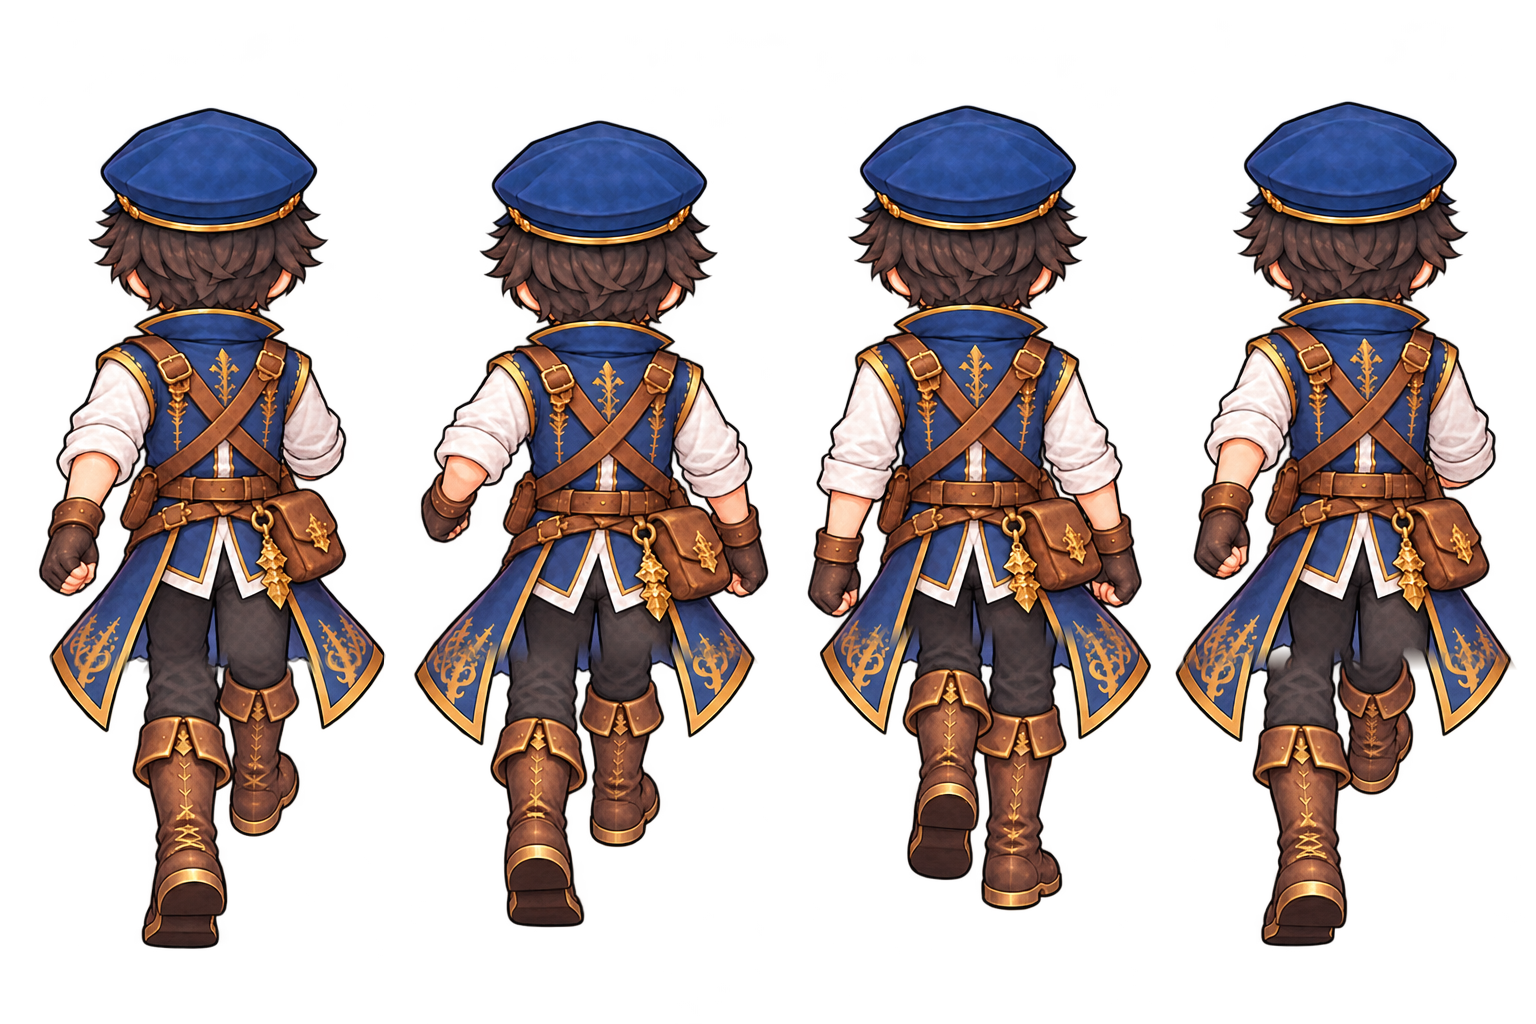
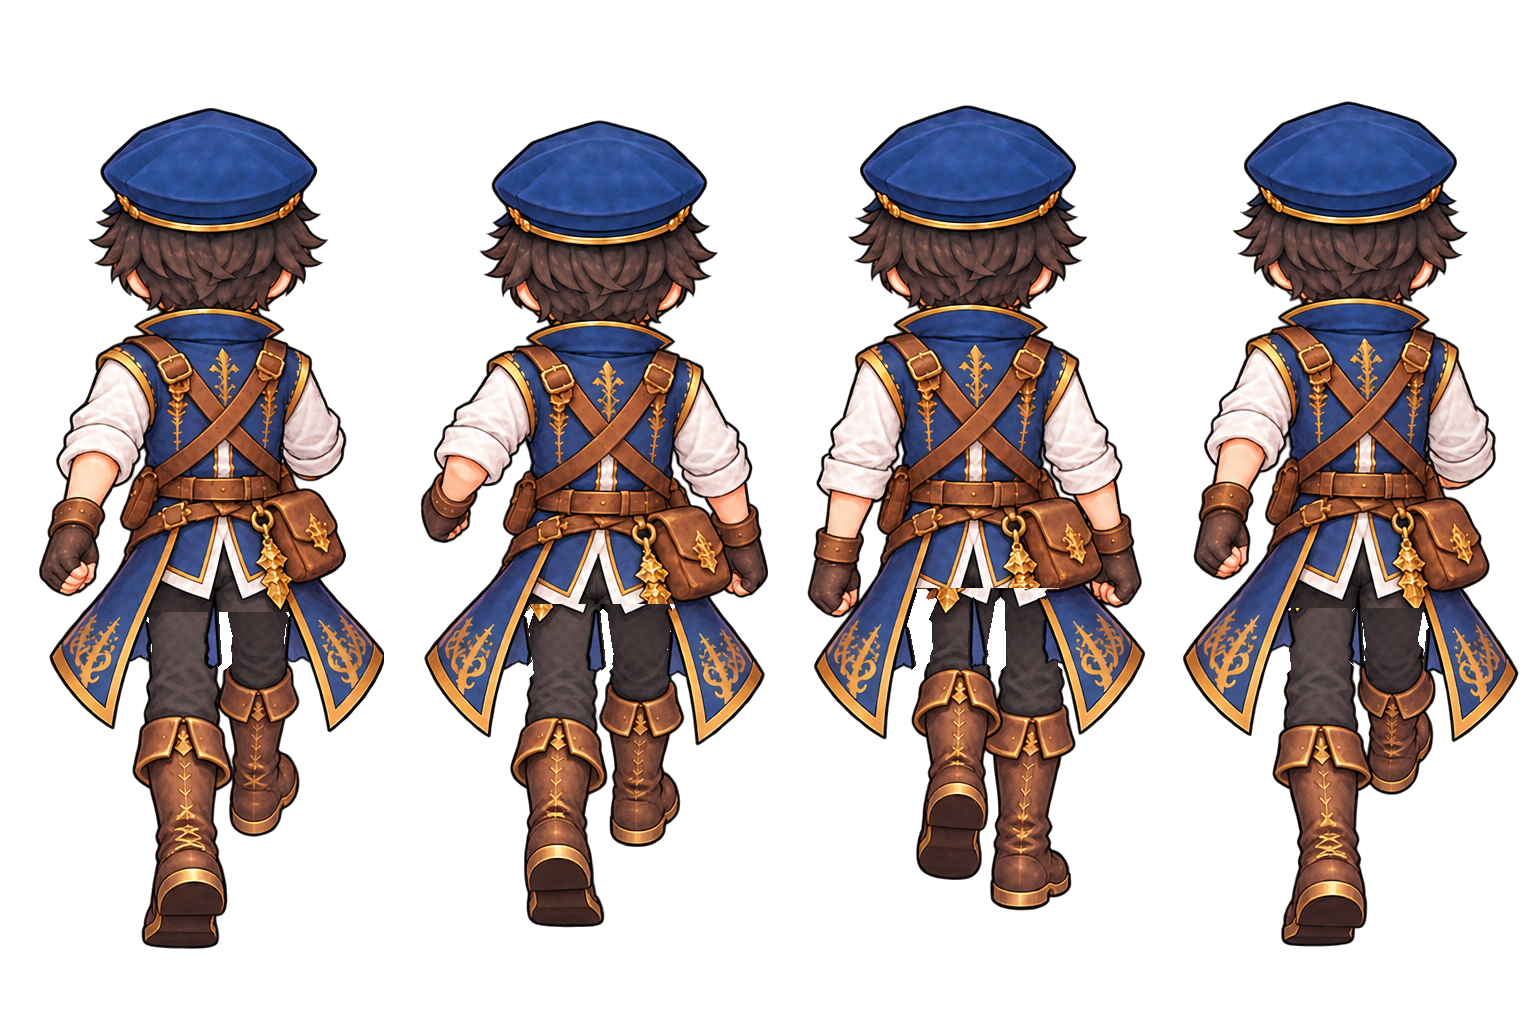
背中の歩き2枚目を作り直し（コートが切れないように足だけ入れ替え）
コート・手・かばんは元の位置のまま、ズボンとブーツだけを股の中心で左右反転して
コートの後ろに描く方法に変えた（前の版は腰より下ごと反転したため、コートの形が合わず切れて見えた）。

Claude-Session: https://claude.ai/code/session_017WQbmD1PjqFYPU1QptgkxD

Changed region(s): [[0.5312, 0.5625, 1.0, 0.9375], [0.0312, 0.5625, 0.5, 0.9062]]

diff --git a/tools/art/back_walk_swap_legs.py b/tools/art/back_walk_swap_legs.py
@@ -1,0 +1,89 @@
+"""後ろ向きの歩き2枚目（左足の1歩）を1枚目（右足の1歩）から作る（2026-10-24。画像AIの2枚目が1枚目とほぼ同じ絵だったための代わり）。
+コート（青・金のふち・その輪郭）・手・かばんは元の位置のまま残し、ズボンとブーツだけを股の中心で左右反転して、コートの後ろに描く。
+python3 -I tools/art/back_walk_swap_legs.py <1枚目> <出力> [切れ目 0.60]
+"""
+import sys
+import numpy as np
+from PIL import Image
+from scipy import ndimage
+
+src, dst = sys.argv[1], sys.argv[2]
+CUT = float(sys.argv[3]) if len(sys.argv) > 3 else 0.60
+im = np.array(Image.open(src).convert('RGBA')).astype(np.float32)
+H = im.shape[0]
+YY = np.arange(H)[:, None]
+
+
+def over(d, s):
+    sa = s[..., 3:4] / 255
+    da = d[..., 3:4] / 255
+    oa = sa + da * (1 - sa)
+    rgb = (s[..., :3] * sa + d[..., :3] * da * (1 - sa)) / np.maximum(oa, 1e-6)
+    return np.concatenate([rgb, oa * 255], -1)
+
+
+out = np.zeros_like(im)
+masks = []
+for i in range(4):
+    x0, x1 = i * 384, (i + 1) * 384
+    s = im[:, x0:x1]
+    a = s[..., 3] > 30
+    lab, n = ndimage.label(a)
+    sizes = ndimage.sum(a, lab, range(1, n + 1))
+    a = lab == (1 + int(np.argmax(sizes)))
+    ys = np.nonzero(a.any(1))[0]
+    top, bot = ys[0], ys[-1]
+    h = bot - top
+    cut = int(top + CUT * h)
+    r, g, b = s[..., 0], s[..., 1], s[..., 2]
+    mx = np.maximum(np.maximum(r, g), b)
+    blue = a & (b > r + 20) & (b > g + 5)
+    gold = a & (r > 150) & (g > 95) & (r - b > 70)
+    near_blue = ndimage.binary_dilation(blue, iterations=5)
+    glab, gn = ndimage.label(gold)
+    coat_gold = np.zeros_like(gold)
+    for k in range(1, gn + 1):
+        c = glab == k
+        if (c & near_blue).sum() >= 0.3 * c.sum():
+            coat_gold |= c
+    coat = blue | coat_gold
+    dark = a & (mx < 90)
+    coat |= dark & ndimage.binary_dilation(coat, iterations=4)
+    coat = ndimage.binary_closing(coat, iterations=2) & a
+    # 足＝切れ目より下の「コート以外」のうち、いちばん下（ブーツ）までつながっている部分
+    cand = a & ~coat & (YY >= cut)
+    lab2, n2 = ndimage.label(cand)
+    legs = np.zeros_like(cand)
+    for k in range(1, n2 + 1):
+        c = lab2 == k
+        if c[int(bot - 0.12 * h):].any():
+            legs |= c
+    # 股の中心：切れ目のすぐ下の足の左右の端の真ん中
+    xs = np.nonzero(legs[cut:cut + 12].any(0))[0]
+    cx = (xs[0] + xs[-1]) / 2
+    leg_img = s.copy()
+    leg_img[..., 3] = np.where(legs, s[..., 3], 0)
+    mir = np.zeros_like(leg_img)
+    for x in range(384):
+        xm = int(round(2 * cx - x))
+        if 0 <= xm < 384:
+            mir[:, x] = leg_img[:, xm]
+    rest = s.copy()
+    rest[..., 3] = np.where(legs | ~a, 0, s[..., 3])
+    res = over(mir, rest)
+    # 反転で取り残された小さなかけらを消す
+    ra = res[..., 3] > 30
+    lab3, n3 = ndimage.label(ra)
+    sz = ndimage.sum(ra, lab3, range(1, n3 + 1))
+    big = lab3 == (1 + int(np.argmax(sz)))
+    res[..., 3] = np.where(ndimage.binary_dilation(big, iterations=2), res[..., 3], 0)
+    out[:, x0:x1] = res
+    masks.append((coat, legs))
+    print(i, 'cx', cx, 'cut', cut)
+Image.fromarray(np.clip(out, 0, 255).astype(np.uint8)).save(dst)
+# 確認用：コート＝青、足＝赤
+dbg = np.zeros((H, 1536, 3), np.uint8)
+for i, (c, l) in enumerate(masks):
+    dbg[:, i * 384:(i + 1) * 384][c] = (60, 90, 220)
+    dbg[:, i * 384:(i + 1) * 384][l] = (220, 60, 60)
+Image.fromarray(dbg).save(dst.replace('.png', '_mask.png'))

diff --git a/docs/handoff.md b/docs/handoff.md
@@ -10,7 +10,7 @@
 | アプリのアイコン | 2026-10-23 に新しい正式アイコンへ差し替え（原本 `assets/images/icons/sacred-monsters-bc-official-icon-v2.png`。作り方は `assets/README.md`）。タイトル画面のアイコンも同じ |
 | 公開URL | https://shunyamita0804-source.github.io/sacred-monsters-battle-card/ （`main` の `199853b` を公開。2026-10-24・ユーザーの「公開して」による。男性主人公の正面の歩き1周8コマが公開版に入っていることを確認）。旧URL（…/mirtill-monsters-battle-card/）は 404 |
 | リポジトリ | https://github.com/shunyamita0804-source/sacred-monsters-battle-card （Public。2026-10-22 ユーザーが改名。旧名 mirtill-monsters-battle-card） |
-| 最新版 | `main`（公開した `199853b`＋このメモ）。テスト 351件。作業ブランチ `claude/new-session-flx5dv` は main の先：**男性主人公の背中の歩きも1周8コマ**（2枚目は画像AIの絵が1枚目とほぼ同じだったため、1枚目の腰より下を左右反転して作った。`tools/art/back_walk_mirror_legs.py`）。未公開。**左向き（＝右向き）は未完了**：2枚目の直しを画像AIに依頼中（`docs/design/motion-v2-20261024/easy/left/03`）。届いたら `PLAYER_V2_ROWS` に 2・3 行を足す |
+| 最新版 | `main`（公開した `199853b`＋このメモ）。テスト 351件。作業ブランチ `claude/new-session-flx5dv` は main の先：**男性主人公の背中の歩きも1周8コマ**（2枚目は画像AIの絵が1枚目とほぼ同じだったため、1枚目のズボンとブーツだけを左右反転してコートの後ろに描いた。`tools/art/back_walk_swap_legs.py`）。未公開。**左向き（＝右向き）は未完了**：2枚目の直しを画像AIに依頼中（`docs/design/motion-v2-20261024/easy/left/03`）。届いたら `PLAYER_V2_ROWS` に 2・3 行を足す |
 | 公開する版 | `main`。作業はブランチで行い、確認後に `main` へマージしてから公開する |
 | 本編 | `mystic-monsters`（育成ゲーム本編）は**変更禁止**。素材の利用だけ許可済み（読み取りのみ） |
 | バトルのルール | **PS版『モンスターファーム バトルカード』準拠。変えるのは3点だけ**：山札60枚・ガッツを「マナ」と表記・全体カードとブリーダー（プレイヤー）カードを「サポート」に集約（ユーザー決定。`docs/battle-rules.md`） |
